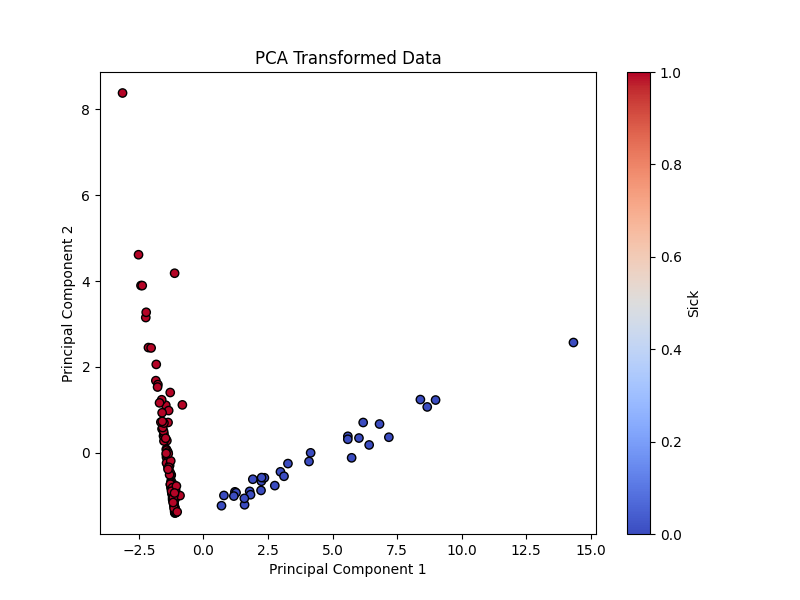
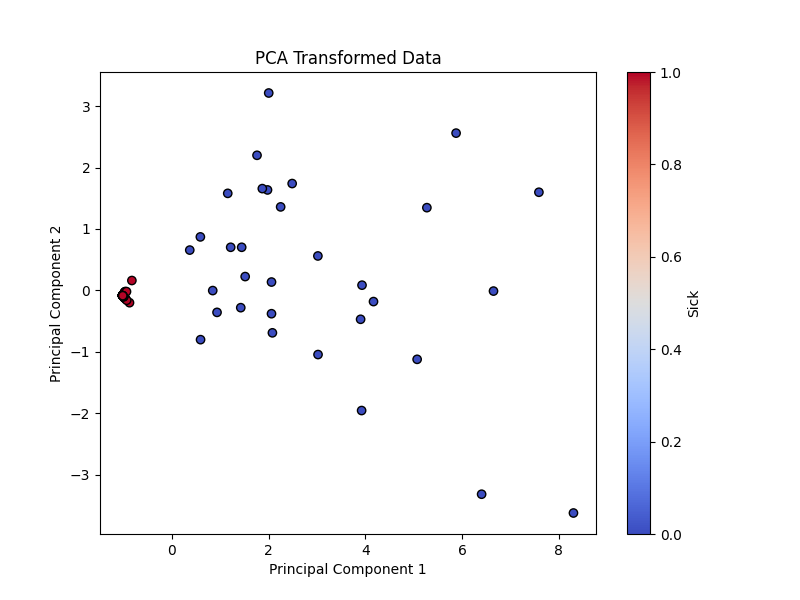
updated plots - AG

diff --git a/classification_models.py b/classification_models.py
@@ -100,8 +100,9 @@ print(total_counts)
 
 # select 400 genes with the highest abs(fold change)
 # can change this to be a different subset of genes, perhaps only negative/positive fold change, or a different number of genes
-max_genes = total_counts.nlargest(200, 'abs value')
+max_genes = total_counts.nlargest(4, 'abs value')
 print(max_genes)
+raise ValueError
 
 # need to explore the max_gene
 
@@ -173,6 +174,7 @@ print(clean_data)
 
 print(clean_data.columns)  # should define what these genes we consider essential are
 # worrying about overfitting since we have such few genes...
+print(len(clean_data.columns))
 
 
 def run_PCA(data, class_col, plot_label, graph_prefix):
@@ -332,7 +334,7 @@ plt.legend(loc="lower right")
 plt.grid(True)
 plt.savefig("./results/initial_model_hvs_rocs.png")
 plt.show()
-
+raise ValueError
 # still does not seem right, why is everything a perfect model?
 
 ######################################################################################################################
